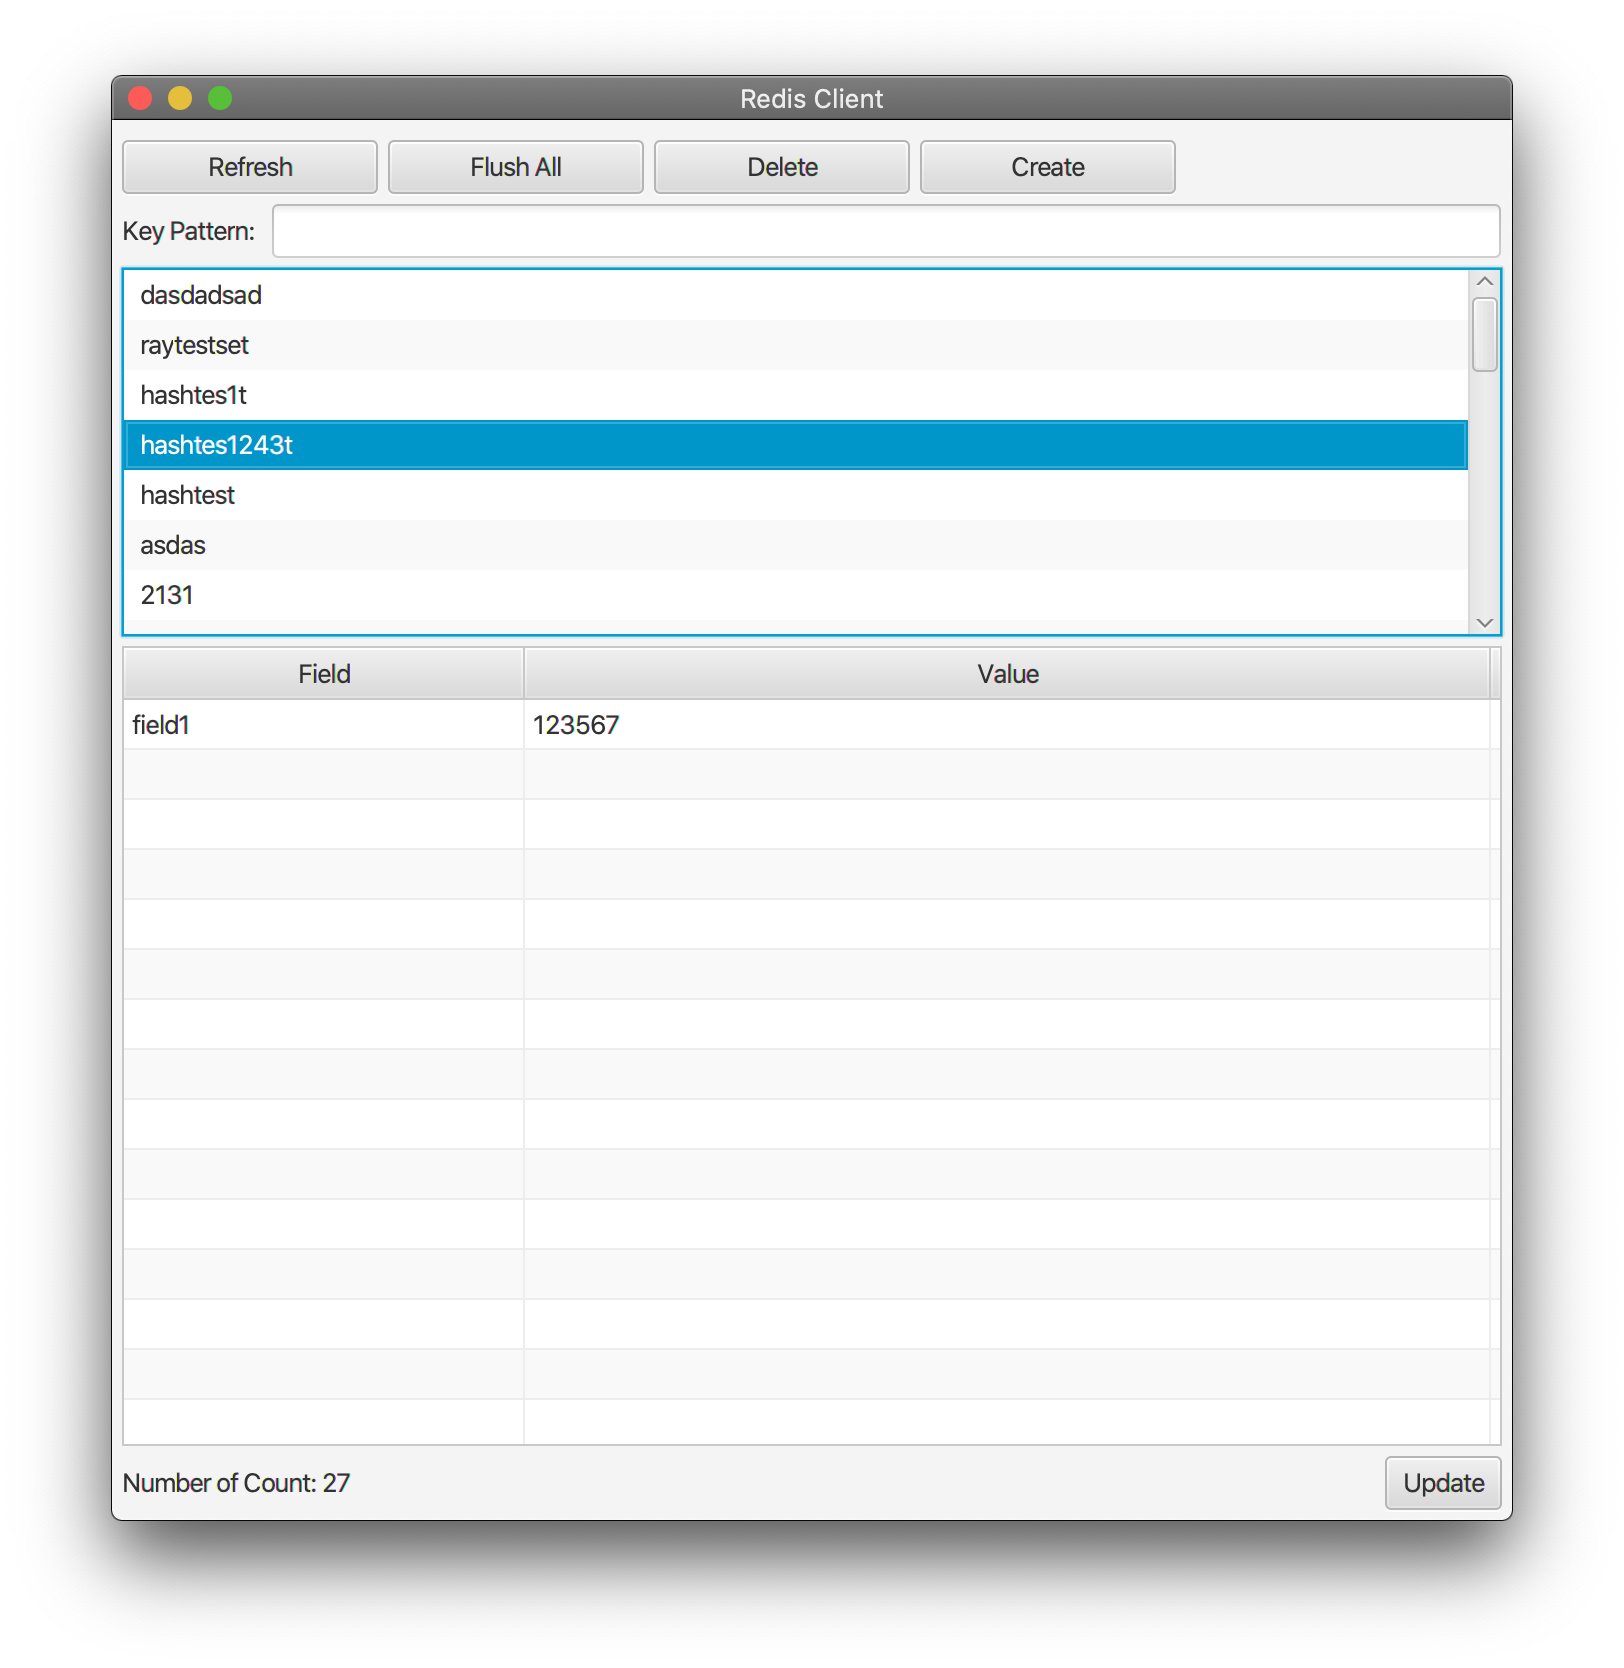
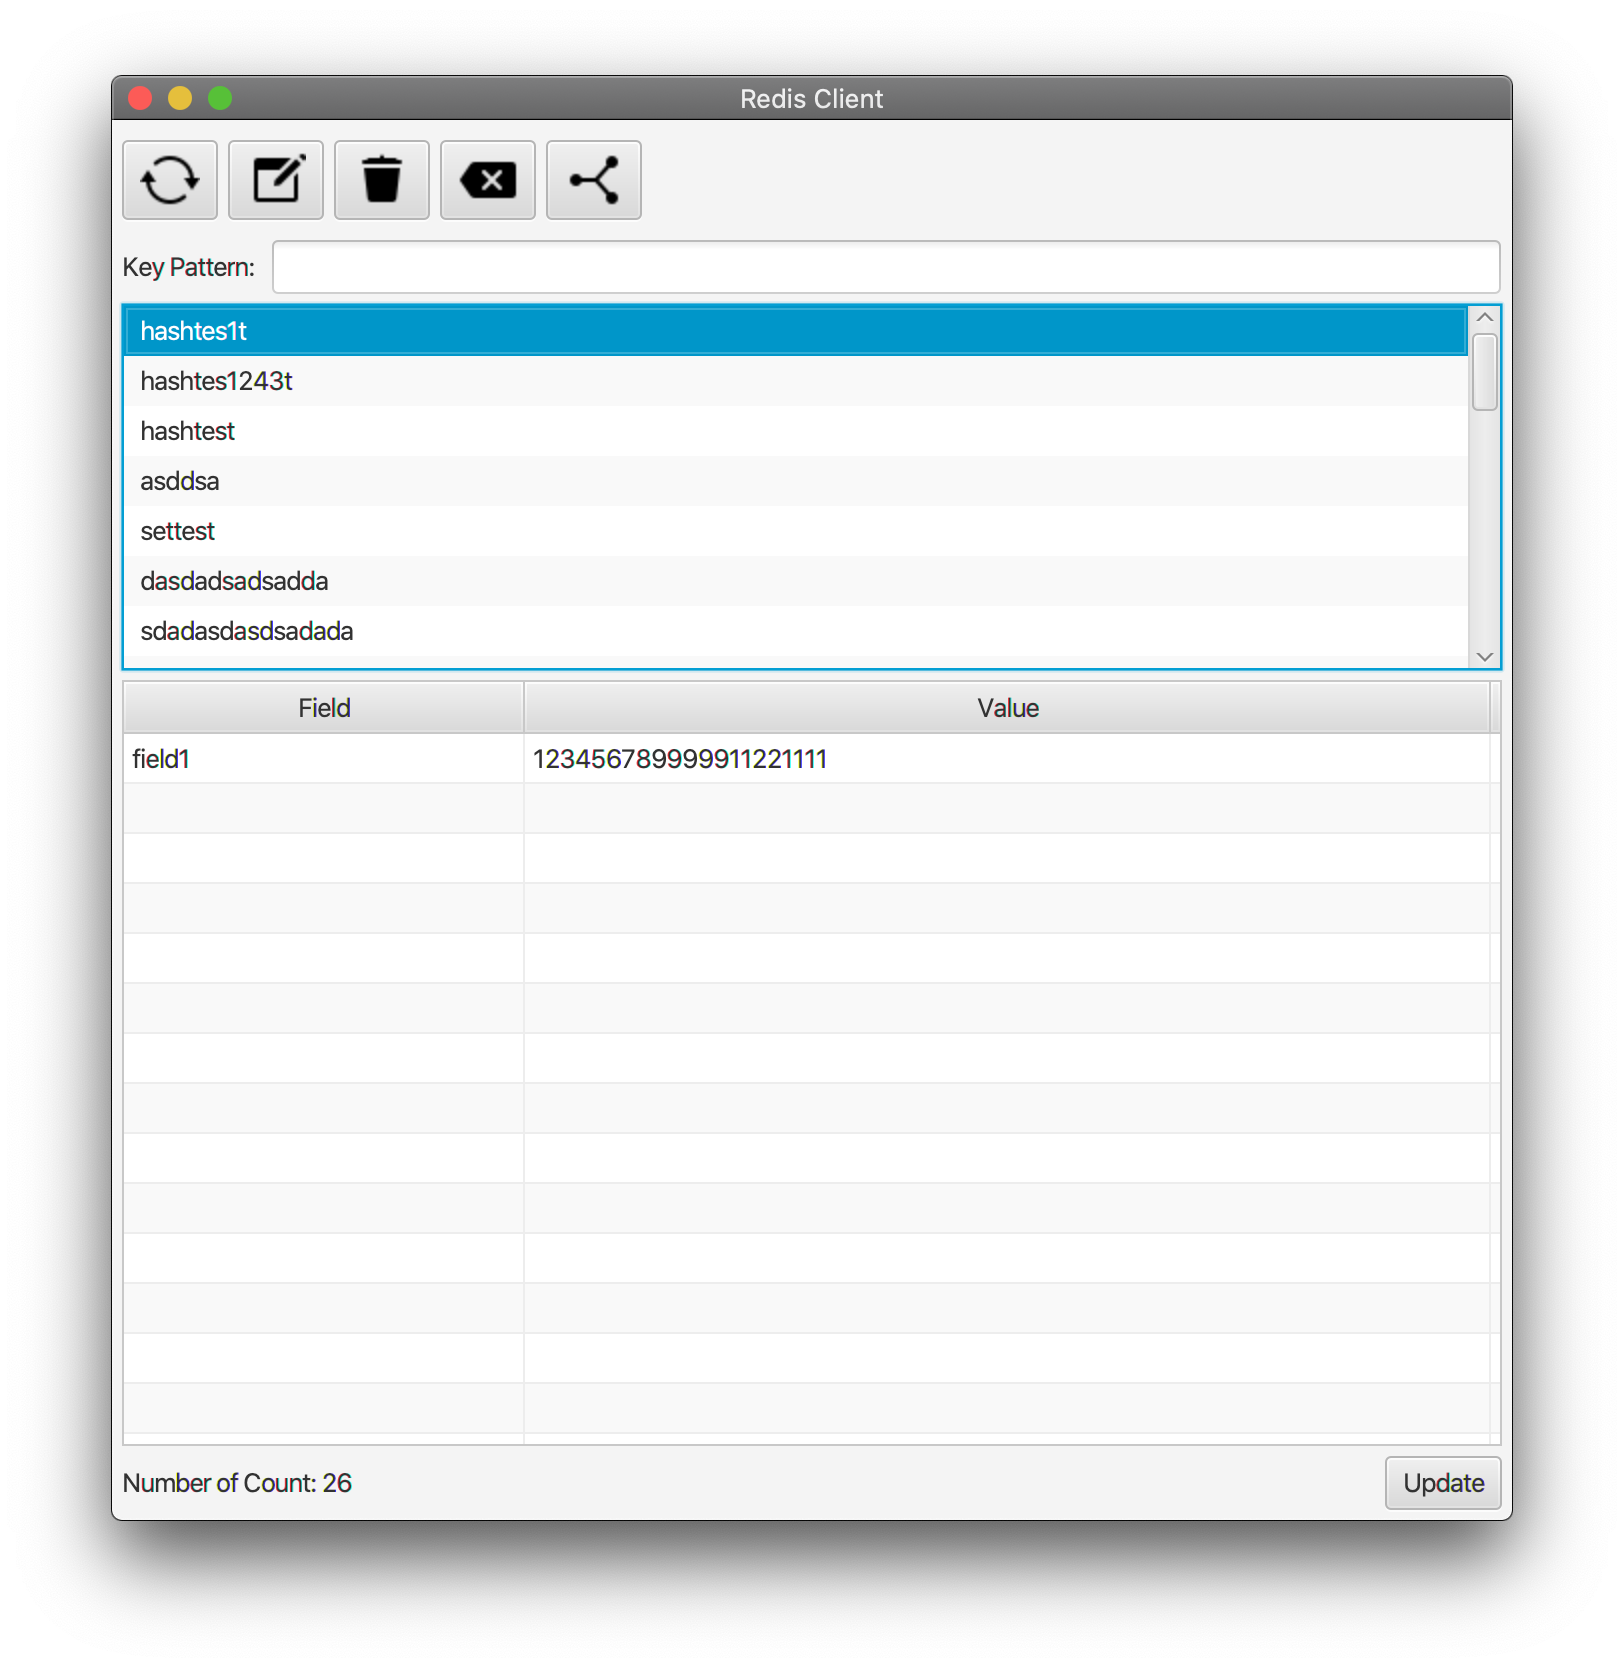
add connect redis button to main use image button

Changed region(s): [[0.0616, 0.0935, 0.9236, 0.4676]]

diff --git a/src/main/java/ui/controller/MainController.java b/src/main/java/ui/controller/MainController.java
@@ -61,6 +61,8 @@ public class MainController implements Initializable {
     @FXML
     Button deleteKey;
     @FXML
+    Button connectRedis;
+    @FXML
     TextField searchBox;
     @FXML
     Label resultCount;
@@ -209,14 +211,15 @@ public class MainController implements Initializable {
         }
     }
 
-    private void connectRedis() {
+    @FXML
+    public void connectRedis() {
         try {
             Parent root = FXMLLoader.load(getClass().getResource("/connect-redis.fxml"));
             Stage stage = new Stage();
             stage.initModality(Modality.APPLICATION_MODAL);
             stage.setAlwaysOnTop(true);
             stage.setOnCloseRequest(event -> refresh());
-            stage.setScene(new Scene(root, 500, 110));
+            stage.setScene(new Scene(root, 500, 115));
             stage.setTitle("Connect Redis");
             stage.show();
         } catch (IOException e) {

diff --git a/src/main/java/ui/controller/ConnectRedisController.java b/src/main/java/ui/controller/ConnectRedisController.java
@@ -11,6 +11,7 @@ import ui.util.AlertUtil;
 import util.Preference;
 
 import java.net.URL;
+import java.util.Optional;
 import java.util.ResourceBundle;
 
 /**
@@ -26,7 +27,11 @@ public class ConnectRedisController implements Initializable {
 
     @Override
     public void initialize(URL location, ResourceBundle resources) {
+        Optional<String> host = Preference.get("redis.host");
+        Optional<String> port = Preference.get("redis.port");
 
+        redisHost.setText(host.orElse(""));
+        redisPort.setText(port.orElse(""));
     }
 
     @FXML
